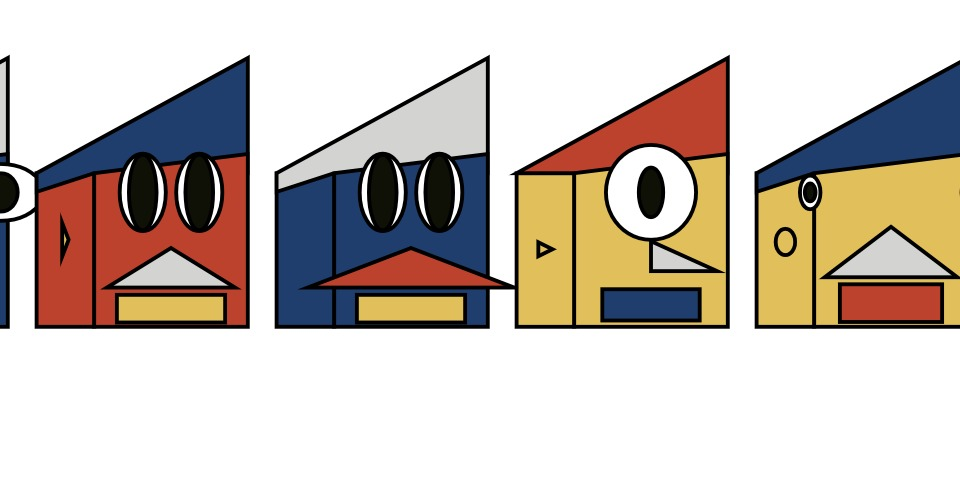
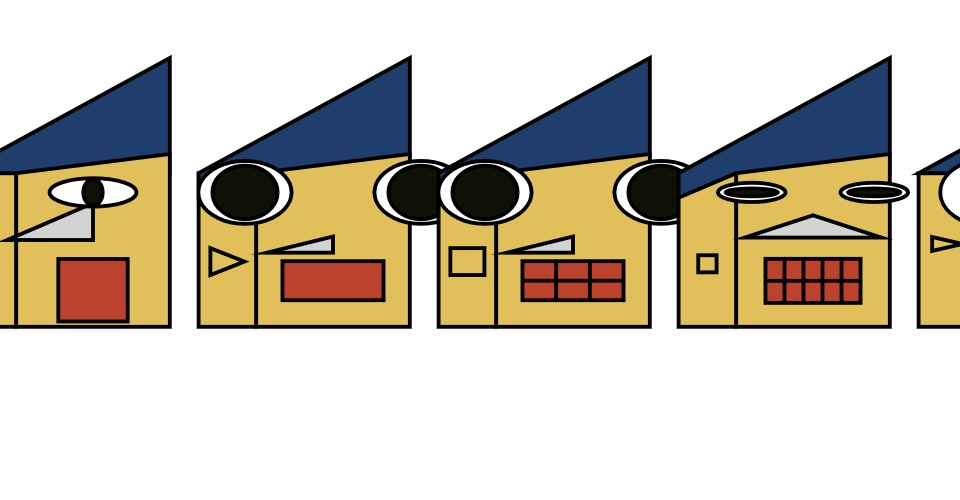
swapped colours on mouth and nose and removed colour shuffling

diff --git a/face_code.js b/face_code.js
@@ -59,7 +59,7 @@ const grey=[211,211,209];
 const white=[255,255,255];
 const myBgCol=white;
 class Face{
-  colourList=[red,yellow,blue,grey];
+  //colourList=[red,yellow,blue,grey];
   
   headHeight=8;
   headWidth=8; 
@@ -75,18 +75,18 @@ class Face{
   eyeBallCol=white;
   eyeCentreCol=black;
   eyeY=-3;
-  mouthColour=grey;
+  mouthColour=red;
   innerEarCol=this.skinColour;
   eyeStroke=true; 
   earShape="none";
-  noseCol=red;
+  noseCol=grey;
   
   constructor(){
-    this.colourList.sort(() => Math.random() - 0.5);//shuffles the array
-    this.noseCol=this.colourList[0];
-    this.mouthColour=this.colourList[1];
-    this.skinColour=this.colourList[2];
-    this.hairColour=this.colourList[3];
+    // this.colourList.sort(() => Math.random() - 0.5);//shuffles the array
+    // this.noseCol=this.colourList[0];
+    // this.mouthColour=this.colourList[1];
+    // this.skinColour=this.colourList[2];
+    // this.hairColour=this.colourList[3];
     this.faceX=0;
     this.sideBurn=sideBurns[Math.floor(Math.random() * sideBurns.length)];
     if(this.sideBurn!="none"){

diff --git a/README.md b/README.md
@@ -1,1 +1,1 @@
-added a colour shuffling array where it picks the the colour of the skin,nose,mouth and hair out of a list where these are all different. 
+Reverted to the previous colour scheme and removed the shuffling. I have swapped the nose and mouth colour though. I also seemingly have broken the p5 random function as often 2 faces are identical next to each other for the continous variables. This only applies to the continous variables as the categorical variables use Math.random.
